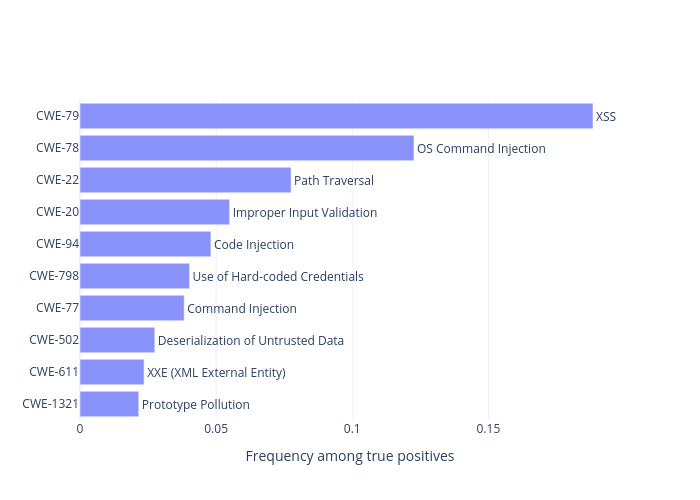
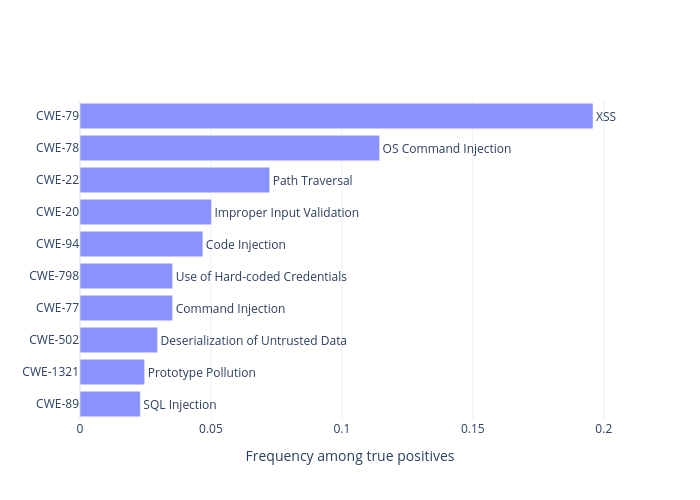
update plots with new data

diff --git a/eyeballvul_experiments/results.py b/eyeballvul_experiments/results.py
@@ -515,6 +515,7 @@ def plot_cwes_found(instruction_template_hash: str, top_n: int):
         "CWE-502": "Deserialization of Untrusted Data",
         "CWE-611": "XXE (XML External Entity)",
         "CWE-1321": "Prototype Pollution",
+        "CWE-89": "SQL Injection",
     }
     attempt_filenames = [attempt.name for attempt in Config.paths.attempts.iterdir()]
     for attempt_filename in attempt_filenames:
